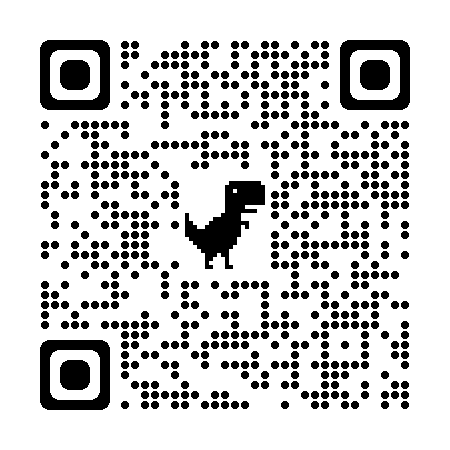
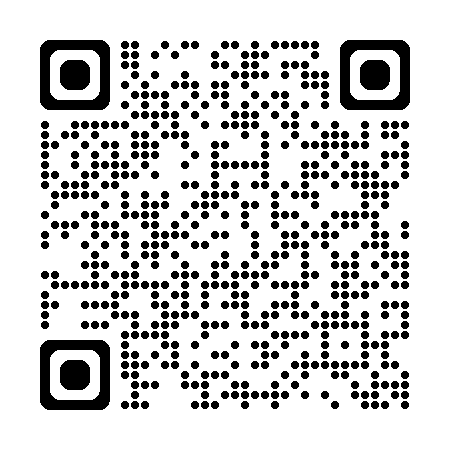
Atualização do site - Wireframe

diff --git a/style.css b/style.css
@@ -175,6 +175,34 @@ main h2 {
     height: 191px;
     border: 0;
 }
+
+/*Wireframe*/
+#wireframe {
+    padding: 50px 0px;
+    background: url(IMG/background.png);
+    background-size: cover;
+    background-position: center;
+}
+#textoWire {
+    color: #fff;
+    padding: 0px 10px;
+}
+
+#textoWire h2 {
+    margin-bottom: 10px;
+}
+
+#textoWire p {
+    margin-bottom: 40px;
+}
+
+#textoWire span {
+    display: none;
+}
+
+#qrcode {
+    display: none;
+}
 /* Smartphone Landscape >>>>>>>>>>>>>>>>>>>>>>>>>>>>>>>*/
 @media (min-width: 576px){
     /*Layout*/
@@ -283,6 +311,24 @@ main h2 {
     .Flex3 {
         flex-direction: row;
         align-items: center;
+    }
+
+    /* Wireframe */
+    #wireframe {
+        background-attachment: fixed;
+    }
+
+    #wireframe span {
+        display: inline;
+    }
+
+    #qrcode {
+        display: inline;
+    }
+
+    #qrcode img {
+        width: 225px;
+        height: 225px;
     }
 }
 

diff --git a/index.html b/index.html
@@ -87,14 +87,16 @@
     </section>
 
     <!-- Wireframe -->
-    <section>
-        <div class="Conteiner">
+    <section id="wireframe">
+        <div class="Conteiner Flex2">
             <div id="textoWire">
                 <h2>Wireframe</h2>
                 <p>Wireframe é uma representação visual da estrutura básica de uma página. Ele deve ser feito da maneira mais simples possível, mostrando apenas o essencial, como uma espécie de rascunho, sem cores ou imagens. Clique no botão <span>ou escaneie o QR Code </span> para obter o wireframe desta página.</p>
-                <a href="wireframe.pdf" target="_blank">PDF</a>
+                <a href="wireframe.pdf" target="_blank" class="Botao">PDF</a>
             </div>
-            <div id="qrcode"></div>
+            <div id="qrcode">
+                <img src="IMG/qrcode.png" alt="qrcode">
+            </div>
           
         </div>
        
